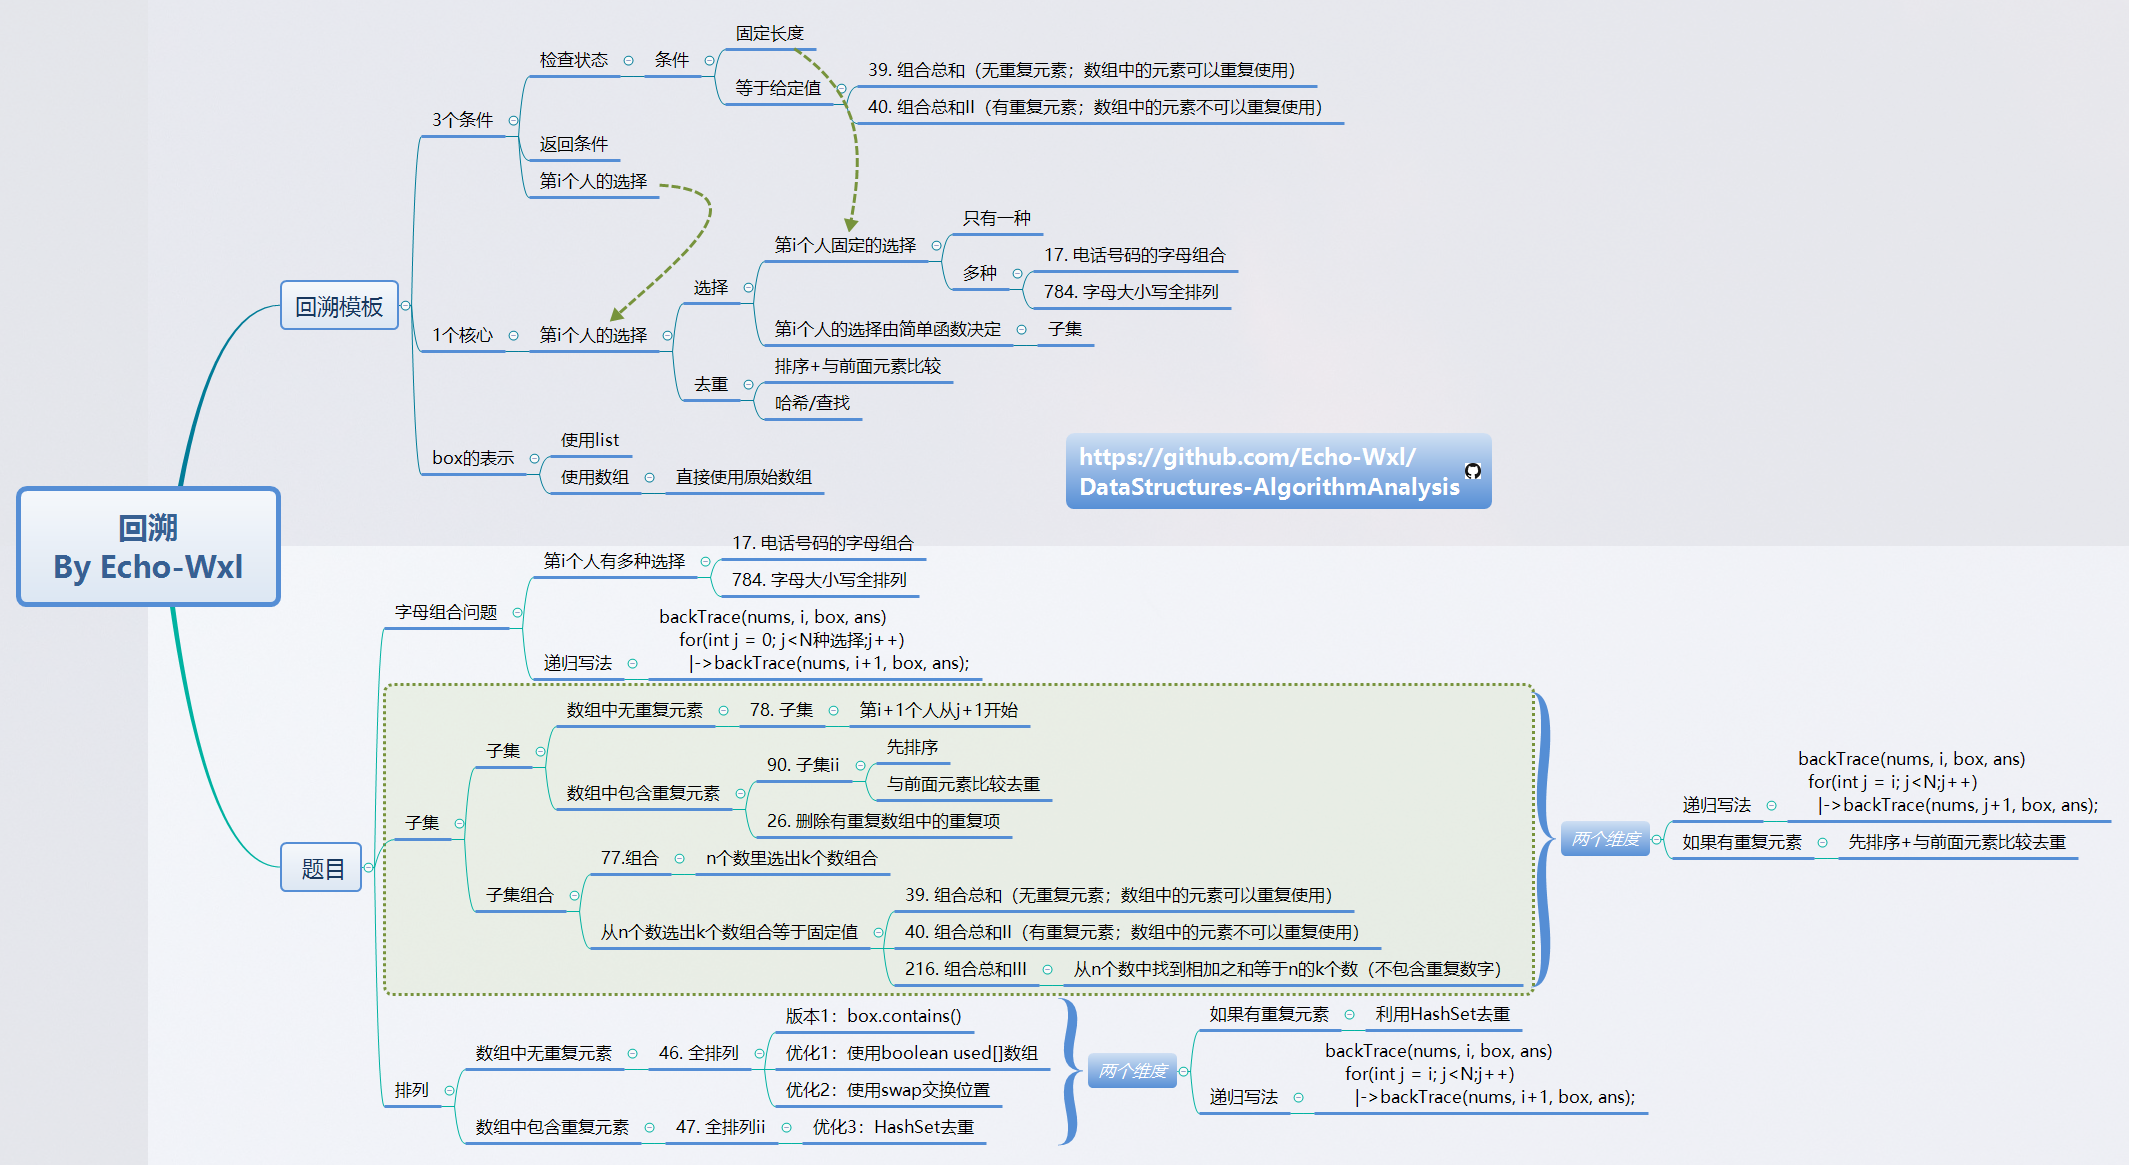
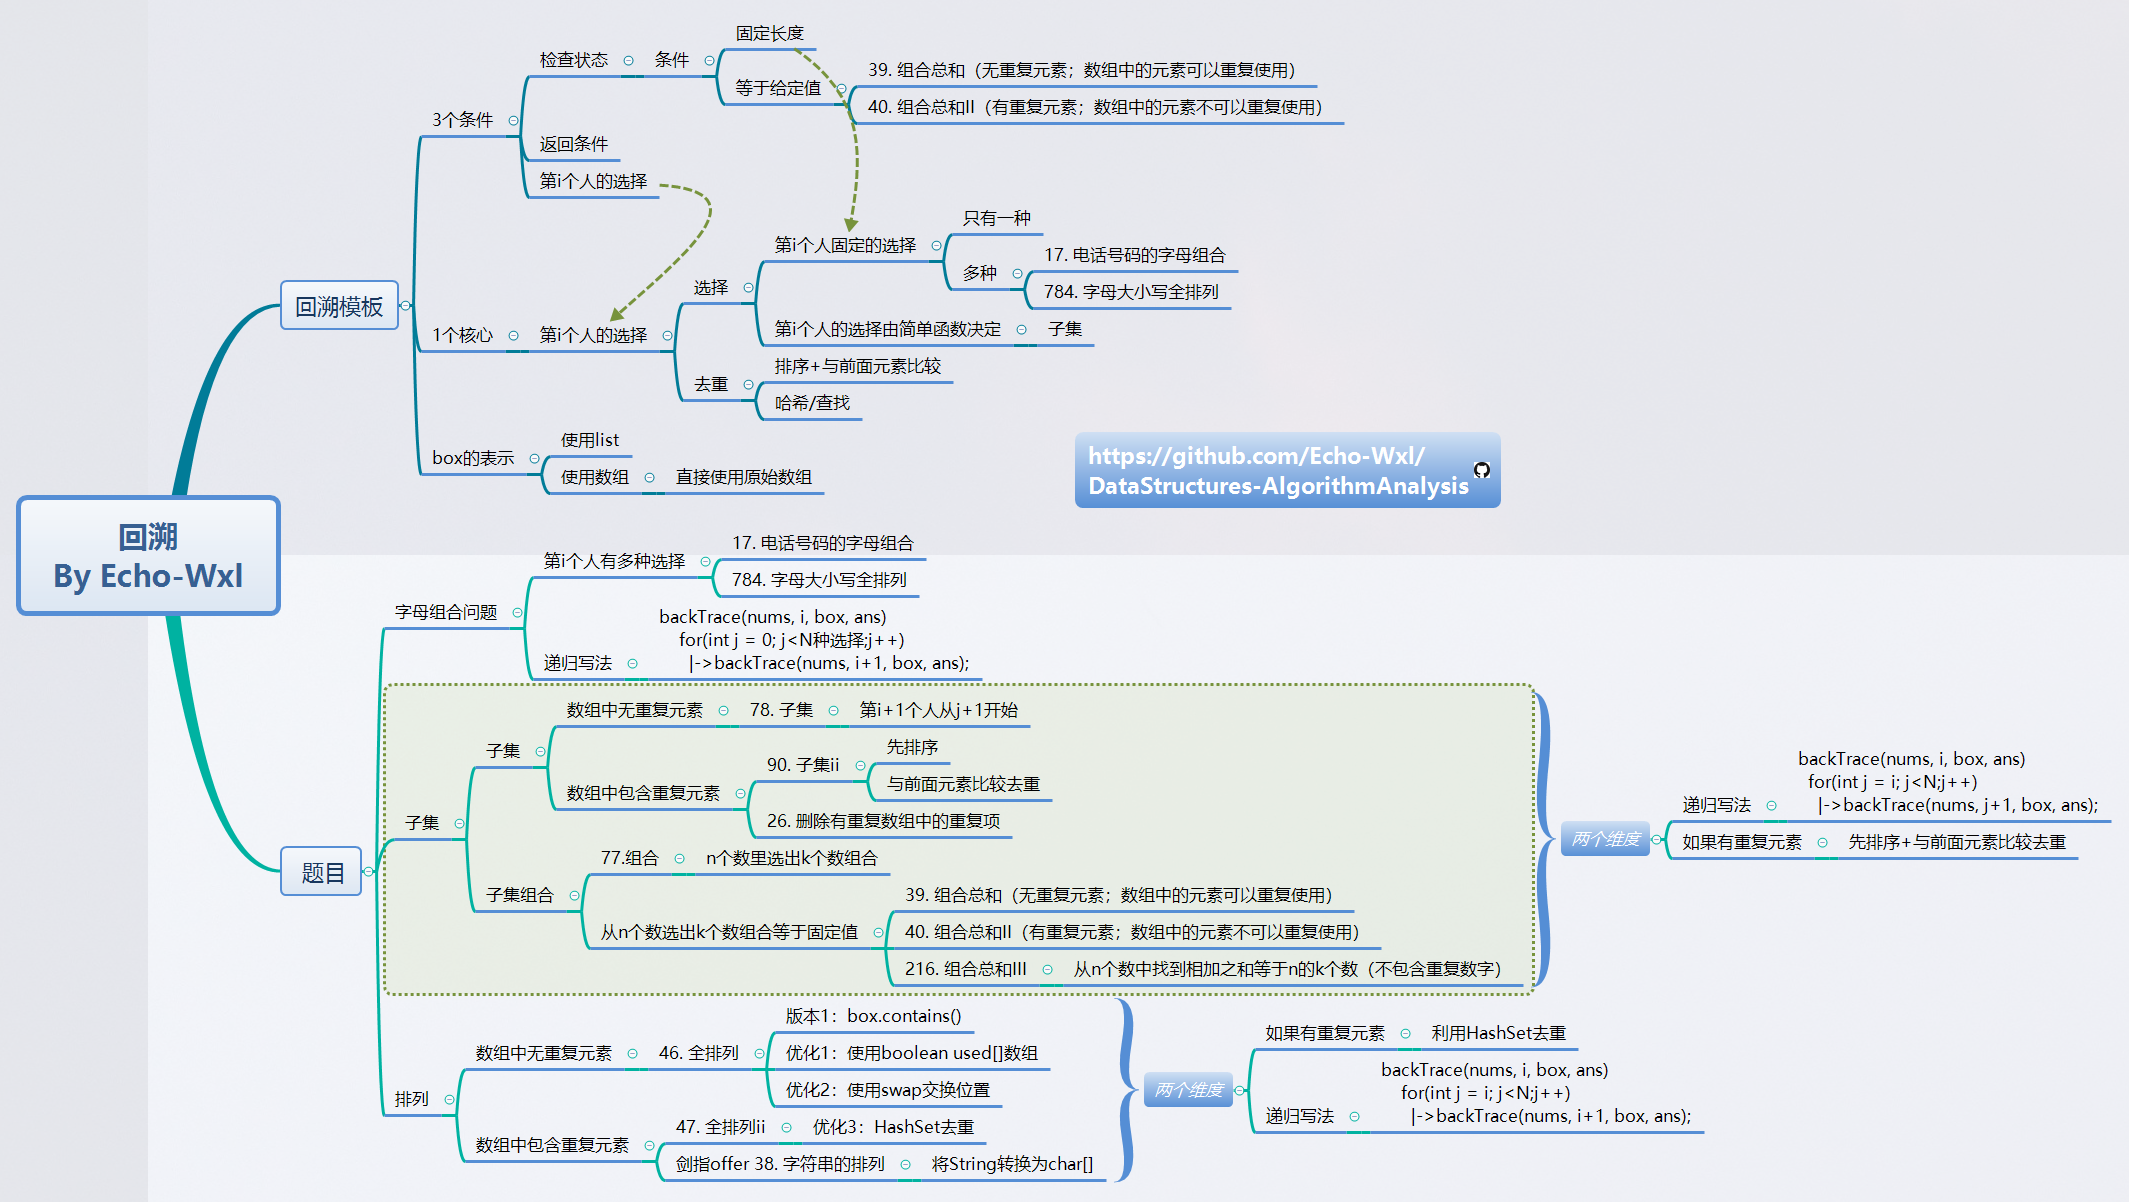
backTrace

diff --git a/11. backTrace/[剑指 Offer 38]字符串的排列.java b/11. backTrace/[剑指 Offer 38]字符串的排列.java
@@ -1,0 +1,59 @@
+//输入一个字符串，打印出该字符串中字符的所有排列。 
+//
+// 
+//
+// 你可以以任意顺序返回这个字符串数组，但里面不能有重复元素。 
+//
+// 
+//
+// 示例: 
+//
+// 输入：s = "abc"
+//输出：["abc","acb","bac","bca","cab","cba"]
+// 
+//
+// 
+//
+// 限制： 
+//
+// 1 <= s 的长度 <= 8 
+// Related Topics 字符串 回溯 
+// 👍 370 👎 0
+
+
+//leetcode submit region begin(Prohibit modification and deletion)
+class Solution {
+    private void swap(char[] s, int i, int j) {
+        char temp = s[i];
+        s[i] = s[j];
+        s[j] = temp;
+    }
+    private void backTrace(char[] s, int i, List<String> ans) {
+        if (i == s.length) {
+           String temp = new String(s);
+           ans.add(temp);
+        }
+        if (i >= s.length) {
+            return;
+        }
+        Set<Character> set = new HashSet<>();
+        for (int j = i; j < s.length; j++) {
+            if (!set.contains(s[j])) {
+                swap(s, i, j);
+                backTrace(s, i+1, ans);
+                swap(s, i, j);
+                set.add(s[j]);
+            }
+        }
+    }
+    public String[] permutation(String s) {
+        if (s == null || s.length() == 0) {
+            return new String[]{};
+        }
+        List<String> ans = new ArrayList<>();
+        char[] arr = s.toCharArray();
+        backTrace(arr, 0, ans);
+        return ans.toArray(new String[ans.size()]);
+    }
+}
+//leetcode submit region end(Prohibit modification and deletion)
